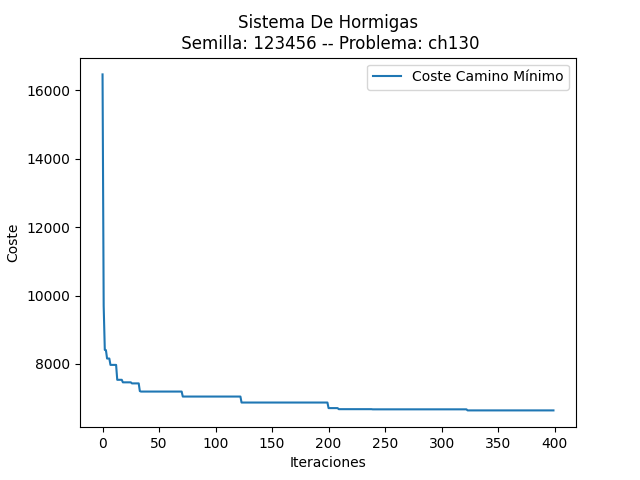
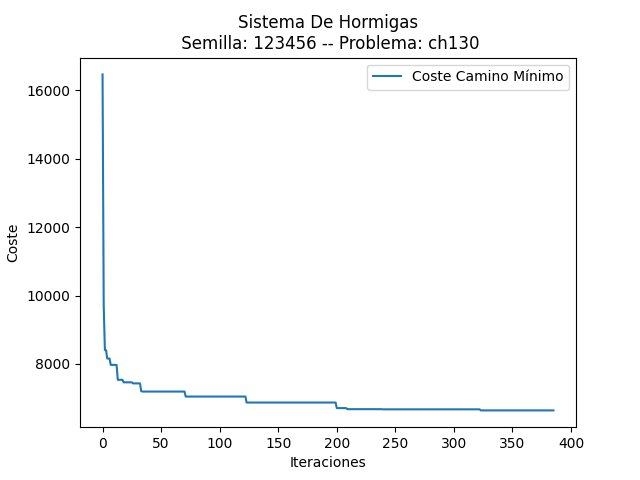
auto-commit:17/05/2023 a las  9:59:54,61

diff --git a/2º Cuatrimestre/[MByHB] Modelos Bioinspirados y Heurísticas de Búsquedas/Prácticas/Práctica4_AlgoritmosHormigas/SistemaHormigasElitista/SistemaHormigasElitista.py b/2º Cuatrimestre/[MByHB] Modelos Bioinspirados y Heurísticas de Búsquedas/Prácticas/Práctica4_AlgoritmosHormigas/SistemaHormigasElitista/SistemaHormigasElitista.py
@@ -16,16 +16,14 @@ def SistemaHormigasElitista(semilla, problema):
     # Lectura de las coordenadas del problema:
     dimension, ciudades = Utils.leerFicheroTSP(f"..\\FicherosTSP\\{problema}.tsp")
     dimension = int(dimension)
-    pathGreedy = greedy.tsp_greedy(ciudades)
+    pathGreedy = greedy.tsp_greedy(semilla, problema)[1]
 
     # Inicializar matrices
     distancias = Utils.inicializarMatrizDistancias(ciudades)
     coste_greedy = Utils.funcionCoste(distancias, pathGreedy)
     feromonas = np.ones((dimension, dimension)) * (1 / (dimension * coste_greedy))
-    # print(dimension)
     # Sembrar Feromonas del camino del Greedy
-    sembrarFeromonas(feromonas, pathGreedy)
-    # print(feromonas)
+    # sembrarFeromonas(feromonas, pathGreedy)
     solucionHormigas = np.ones((Utils.numeroHormigasElitista, dimension), dtype=int) * -1
     coste = np.ones(Utils.numeroHormigasElitista) * float('inf')
     mejorActual = coste[0].copy()
@@ -38,7 +36,7 @@ def SistemaHormigasElitista(semilla, problema):
     # Comienza el algoritmo
     start = time.time()
     t = 0
-    while (time.time() - start) < Utils.TiempoParada(problema) or t < 400:
+    while (time.time() - start) < Utils.TiempoParada(problema):
         t += 1
         solucionHormigas = np.ones((Utils.numeroHormigasElitista, dimension), dtype=int) * -1
         for hormiga in range(len(solucionHormigas)):  # Para cada hormiga
@@ -59,45 +57,50 @@ def SistemaHormigasElitista(semilla, problema):
         if mejorActual < mejorGlobal:
             mejorGlobal = mejorActual
             mejorHormiga = mejorHormigaActual.copy()
-    #         print(mejorHormiga)
-    #         print(f"Coste: {mejorGlobal}")
+            print(mejorGlobal)
         MejorCosteIteracion.append(mejorActual.copy())
-    # print(f"Iteraciones: {t}")
-    # print(f"Tiempo: {(time.time() - start)}")
-    # Utils.plot_path(ciudades, mejorHormiga, f"Hormiga Elitista: {mejorGlobal}")
+
+    print(f"Tiempo: {time.time() - start}")
     return mejorGlobal, mejorHormiga, numEvaluaciones, MejorCosteIteracion
 
 
 def actualizarFeromonas(distancias, soluciones, feromonas, mejorHormiga):
-    num_hormigas = len(soluciones)
-    num_arcos = len(soluciones[0])
+    num_hormigas = len(soluciones)  # Número de hormigas en la población
+    num_arcos = len(soluciones[0])  # Número de arcos en una solución
 
-    delta = np.zeros((num_arcos, num_arcos))
-    costes_hormigas = [Utils.funcionCoste(distancias, hormiga) for hormiga in soluciones]
+    delta = np.zeros((num_arcos, num_arcos))  # Matriz para almacenar la cantidad de feromonas a actualizar
 
+    # Calcular los costes de todas las hormigas en paralelo utilizando operaciones vectorizadas
+    costes_hormigas = np.array([Utils.funcionCoste(distancias, hormiga) for hormiga in soluciones])
+
+    # Calcular el coste de la mejorHormiga
+    mejor_coste_hormiga = Utils.funcionCoste(distancias, mejorHormiga)
+
+    # Actualizar las feromonas para cada hormiga
     for hormiga in range(num_hormigas):
-        for r in range(num_arcos):
-            for s in range(num_arcos):
-                if existeArco(soluciones[hormiga], r, s):
-                    aux = Utils.FACTOR_COSTE / costes_hormigas[hormiga]
-                    delta[r][s] += aux
+        # Obtener los arcos existentes en la solución de la hormiga
+        arcos_existentes = existeArco(soluciones[hormiga], num_arcos)
 
-    coste_mejor_hormiga = Utils.funcionCoste(distancias, mejorHormiga)
+        # Calcular el valor auxiliar para la actualización de feromonas
+        aux = Utils.FACTOR_COSTE / costes_hormigas[hormiga]
 
-    for r in range(num_arcos):
-        for s in range(num_arcos):
-            deltaMejorHormiga = 0
-            if existeArco(mejorHormiga, r, s):
-                if coste_mejor_hormiga > 0:
-                    deltaMejorHormiga = 1 / coste_mejor_hormiga
+        # Actualizar delta sumando el valor auxiliar en los arcos existentes de la hormiga
+        delta[arcos_existentes] += aux
 
-            feromonas[r][s] = (1 - Utils.EVAPORACION) * feromonas[r][s] + delta[r][s] + Utils.numeroHormigasElitista*deltaMejorHormiga
+    mejor_coste_hormiga = 1e-10 if mejor_coste_hormiga == 0 else mejor_coste_hormiga
+    # Actualizar delta sumando el término correspondiente a la mejorHormiga
+    delta[existeArco(mejorHormiga, num_arcos)] += Utils.numeroHormigasElitista / mejor_coste_hormiga
+
+    # Aplicar evaporación y actualizar las feromonas
+    feromonas *= (1 - Utils.EVAPORACION)
+    feromonas += delta
 
 
-def existeArco(solucion, r, s):
-    solucion_np = np.array(solucion)
-    indices = np.where((solucion_np[:-1] == r) & (solucion_np[1:] == s))[0]
-    return len(indices) > 0
+def existeArco(solucion, num_arcos):
+    arcos = np.zeros((num_arcos, num_arcos), dtype=bool)  # Matriz para indicar la existencia de los arcos
+    arcos[solucion[:-1], solucion[1:]] = True  # Marcar como verdaderos los arcos existentes en la solución
+    return arcos
+
 
 
 def transicion(feromonas, distancias, solucionHormiga):

diff --git a/2º Cuatrimestre/[MByHB] Modelos Bioinspirados y Heurísticas de Búsquedas/Prácticas/Práctica4_AlgoritmosHormigas/SistemasDeHormigas/SistemaHormigas.py b/2º Cuatrimestre/[MByHB] Modelos Bioinspirados y Heurísticas de Búsquedas/Prácticas/Práctica4_AlgoritmosHormigas/SistemasDeHormigas/SistemaHormigas.py
@@ -16,16 +16,14 @@ def SistemaHormigas(semilla, problema):
     # Lectura de las coordenadas del problema:
     dimension, ciudades = Utils.leerFicheroTSP(f"..\\FicherosTSP\\{problema}.tsp")
     dimension = int(dimension)
-    pathGreedy = greedy.tsp_greedy(ciudades)
+    pathGreedy = greedy.tsp_greedy(semilla, problema)[1]
 
     # Inicializar matrices
     distancias = Utils.inicializarMatrizDistancias(ciudades)
     coste_greedy = Utils.funcionCoste(distancias, pathGreedy)
     feromonas = np.ones((dimension, dimension)) * (1 / (dimension * coste_greedy))
-    # print(dimension)
     # Sembrar Feromonas del camino del Greedy
-    sembrarFeromonas(feromonas, pathGreedy)
-    # print(feromonas)
+    # sembrarFeromonas(feromonas, pathGreedy)
     solucionHormigas = np.ones((Utils.numeroHormigas, dimension), dtype=int) * -1
     coste = np.ones(Utils.numeroHormigas) * float('inf')
     mejorActual = coste[0].copy()
@@ -37,12 +35,11 @@ def SistemaHormigas(semilla, problema):
     # Comienza el algoritmo
     start = time.time()
     t = 0
-    while (time.time() - start) < Utils.TiempoParada(problema) or t < 400:
+    while (time.time() - start) < Utils.TiempoParada(problema):
         t += 1
         solucionHormigas = np.ones((Utils.numeroHormigas, dimension), dtype=int) * -1
         for hormiga in range(len(solucionHormigas)):  # Para cada hormiga
             solucionHormigas[hormiga][0] = 0  # El primer nodo es el 0
-            # print(f"Hormiga {hormiga}:{solucionHormigas[hormiga]}")
             for nodo in range(1, dimension):  # Para cada nodo
                 probabilidades = transicion(feromonas, distancias, solucionHormigas[hormiga])
                 # Elegir un nodo en funcion de las probabilidades calculadas
@@ -59,37 +56,42 @@ def SistemaHormigas(semilla, problema):
         if mejorActual < mejorGlobal:
             mejorGlobal = mejorActual
             mejorHormiga = mejorHormigaActual.copy()
-            # print(mejorHormiga)
-            # print(f"Coste: {mejorGlobal}")
+            print(mejorGlobal)
         MejorCosteIteracion.append(mejorActual.copy())
-    # print(f"Iteraciones: {t}")
-    # print(f"Tiempo: {(time.time() - start)}")
+    print(f"Tiempo: {time.time() - start}")
     return mejorGlobal, mejorHormiga, numeroEvaluaciones, MejorCosteIteracion
 
 
 def actualizarFeromonas(distancias, soluciones, feromonas):
-    num_hormigas = len(soluciones)
-    num_arcos = len(soluciones[0])
+    num_hormigas = len(soluciones)  # Número de hormigas en la población
+    num_arcos = len(soluciones[0])  # Número de arcos en una solución
 
-    delta = np.zeros((num_arcos, num_arcos))
-    costes_hormigas = [Utils.funcionCoste(distancias, hormiga) for hormiga in soluciones]
+    delta = np.zeros((num_arcos, num_arcos))  # Matriz para almacenar la cantidad de feromonas a actualizar
 
+    # Calcular los costes de todas las hormigas en paralelo utilizando operaciones vectorizadas
+    costes_hormigas = np.array([Utils.funcionCoste(distancias, hormiga) for hormiga in soluciones])
+
+    # Actualizar las feromonas para cada hormiga
     for hormiga in range(num_hormigas):
-        for r in range(num_arcos):
-            for s in range(num_arcos):
-                if existeArco(soluciones[hormiga], r, s):
-                    aux = Utils.FACTOR_COSTE / costes_hormigas[hormiga]
-                    delta[r][s] += aux
+        # Obtener los arcos existentes en la solución de la hormiga
+        arcos_existentes = existeArco(soluciones[hormiga], num_arcos)
 
-    for r in range(num_arcos):
-        for s in range(num_arcos):
-            feromonas[r][s] = (1 - Utils.EVAPORACION) * feromonas[r][s] + delta[r][s]
+        # Calcular el valor auxiliar para la actualización de feromonas
+        aux = Utils.FACTOR_COSTE / costes_hormigas[hormiga]
+
+        # Actualizar delta sumando el valor auxiliar en los arcos existentes de la hormiga
+        delta[arcos_existentes] += aux
+
+    # Aplicar evaporación y actualizar las feromonas
+    feromonas *= (1 - Utils.EVAPORACION)
+    feromonas += delta
 
 
-def existeArco(solucion, r, s):
-    solucion_np = np.array(solucion)
-    indices = np.where((solucion_np[:-1] == r) & (solucion_np[1:] == s))[0]
-    return len(indices) > 0
+def existeArco(solucion, num_arcos):
+    arcos = np.zeros((num_arcos, num_arcos), dtype=bool)  # Matriz para indicar la existencia de los arcos
+    arcos[solucion[:-1], solucion[1:]] = True  # Marcar como verdaderos los arcos existentes en la solución
+    return arcos
+
 
 
 def transicion(feromonas, distancias, solucionHormiga):
@@ -111,7 +113,6 @@ def transicion(feromonas, distancias, solucionHormiga):
     probabilidades = np.zeros(len(distancias))
     probabilidades[u_not_in_solucionHormiga] = (feromonas_r[u_not_in_solucionHormiga] ** Utils.alpha) * (
                 distancias_r_inv[u_not_in_solucionHormiga] ** Utils.beta) / sumaTotal
-    # print(probabilidades)
     return probabilidades
 
 

diff --git a/2º Cuatrimestre/[MByHB] Modelos Bioinspirados y Heurísticas de Búsquedas/Prácticas/Práctica4_AlgoritmosHormigas/Utils.py b/2º Cuatrimestre/[MByHB] Modelos Bioinspirados y Heurísticas de Búsquedas/Prácticas/Práctica4_AlgoritmosHormigas/Utils.py
@@ -155,14 +155,16 @@ def graficasOCH(funcion):
             plot_path(ch130 if problema == "ch130" else a280, mejorCamino, f"Coste Camino: {coste}", semilla, problema)
 
     data = {
-        'Media Evaluaciones': [round(statistics.mean(evaluaciones[:]),2)],
-        'Desviación Evaluaciones': [round(statistics.stdev(evaluaciones[:]),2)],
-        'Media Coste': [round(statistics.mean(costes[:]), 2)],
-        'Desviación Coste': [round(statistics.stdev(costes[:]), 2)]
+        'Media Evaluaciones': [round(statistics.mean(evaluaciones[:, 0]), 2),
+                               round(statistics.mean(evaluaciones[:, 1]), 2)],
+        'Desviación Evaluaciones': [round(statistics.stdev(evaluaciones[:, 0]), 2),
+                                    round(statistics.stdev(evaluaciones[:, 1]), 2)],
+        'Media Coste': [round(statistics.mean(costes[:, 0]), 2), round(statistics.mean(costes[:, 1]), 2)],
+        'Desviación Coste': [round(statistics.stdev(costes[:, 0]), 2), round(statistics.stdev(costes[:, 1]), 2)]
     }
 
     data_coste = {
-        'Ejecucion 1 ': [costes[0], evaluaciones[0]],
+        'Ejecucion 1    ': [costes[0], evaluaciones[0]],
         'Ejecucion 2 ': [costes[1], evaluaciones[1]],
         'Ejecucion 3 ': [costes[2], evaluaciones[2]],
         'Ejecucion 4 ': [costes[3], evaluaciones[3]],
@@ -179,6 +181,7 @@ def graficasOCH(funcion):
     print(pd.DataFrame(data))
     print("\n")
     print(pd.DataFrame(data_coste))
+
 
 if __name__ == "__main__":
     print()

diff --git a/2º Cuatrimestre/[MByHB] Modelos Bioinspirados y Heurísticas de Búsquedas/Prácticas/Práctica4_AlgoritmosHormigas/Greedy/greedy.py b/2º Cuatrimestre/[MByHB] Modelos Bioinspirados y Heurísticas de Búsquedas/Prácticas/Práctica4_AlgoritmosHormigas/Greedy/greedy.py
@@ -1,29 +1,33 @@
 import numpy as np
 import Utils
-def tsp_greedy(coords):
-    n = len(coords)
+
+
+def tsp_greedy(semilla, problema):
+    dimension, ciudades = Utils.leerFicheroTSP(f"..\\FicherosTSP\\{problema}.tsp")
+    n = len(ciudades)
     visited = [False] * n
     path = [0]
     visited[0] = True
     current_city = 0
+    numEvaluaciones = 0
+    coste = 0
+    distancias = Utils.inicializarMatrizDistancias(ciudades)
     while len(path) < n:
         min_distance = np.inf
         nearest_city = None
         for i in range(n):
             if not visited[i]:
-                distance = Utils.distanciaEuclidea(coords[current_city], coords[i])
+                distance = Utils.distanciaEuclidea(ciudades[current_city], ciudades[i])
                 if distance < min_distance:
                     min_distance = distance
                     nearest_city = i
         visited[nearest_city] = True
         path.append(nearest_city)
         current_city = nearest_city
-    return path
+    coste = Utils.funcionCoste(distancias, path)
+    numEvaluaciones += 1
+    return coste, path, numEvaluaciones, [coste]
+
 
 if __name__ == "__main__":
-    dimension, coords = Utils.leerFicheroTSP("../FicherosTSP/ch130.tsp")
-    distancias = Utils.inicializarMatrizDistancias(coords)
-    path = tsp_greedy(coords)
-    print(path)
-    print(Utils.funcionCoste(distancias,path))
-    Utils.plot_path(coords, path, "Camino generado por algoritmo Greedy")
+    Utils.graficasOCH(tsp_greedy)
